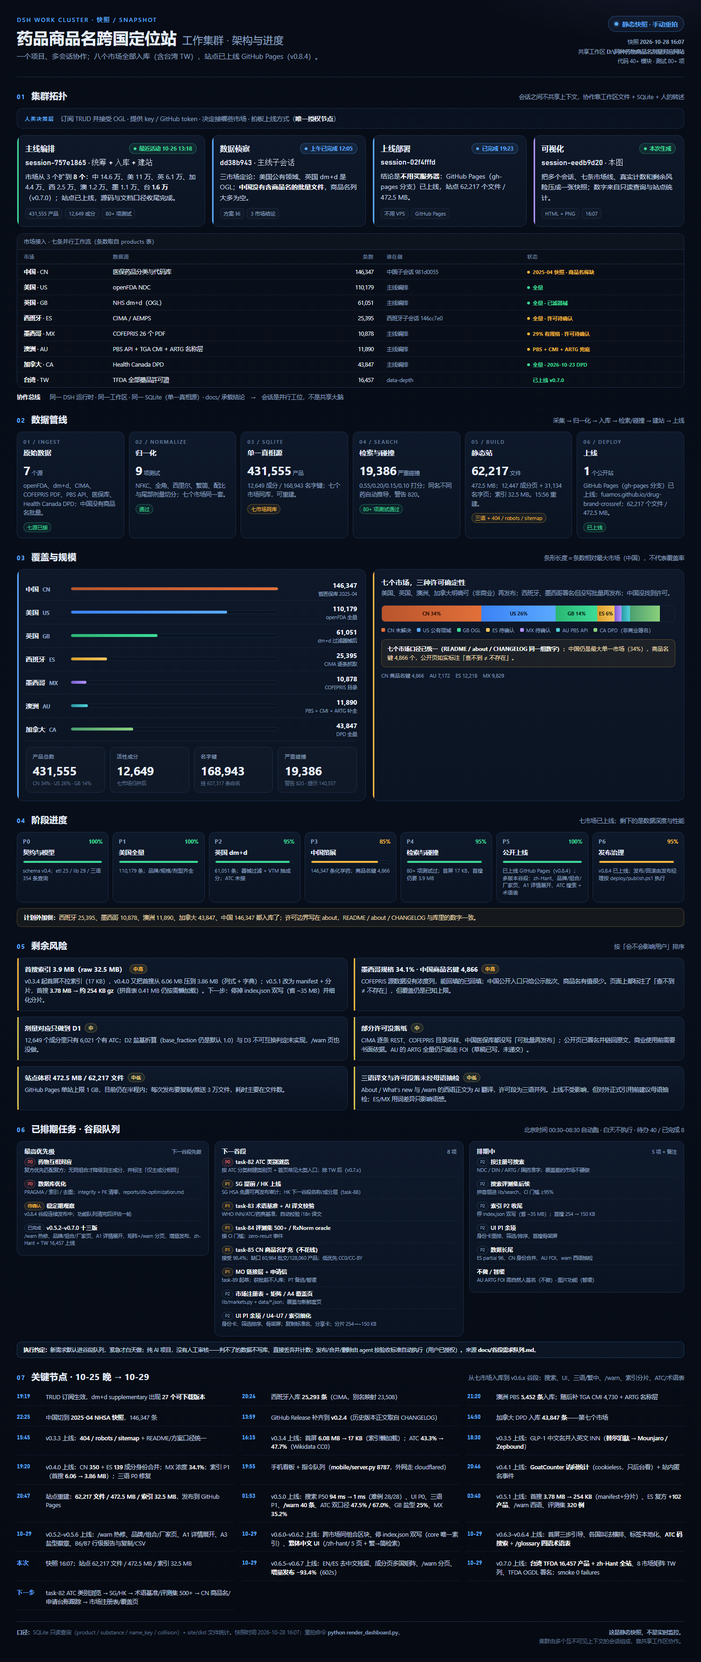
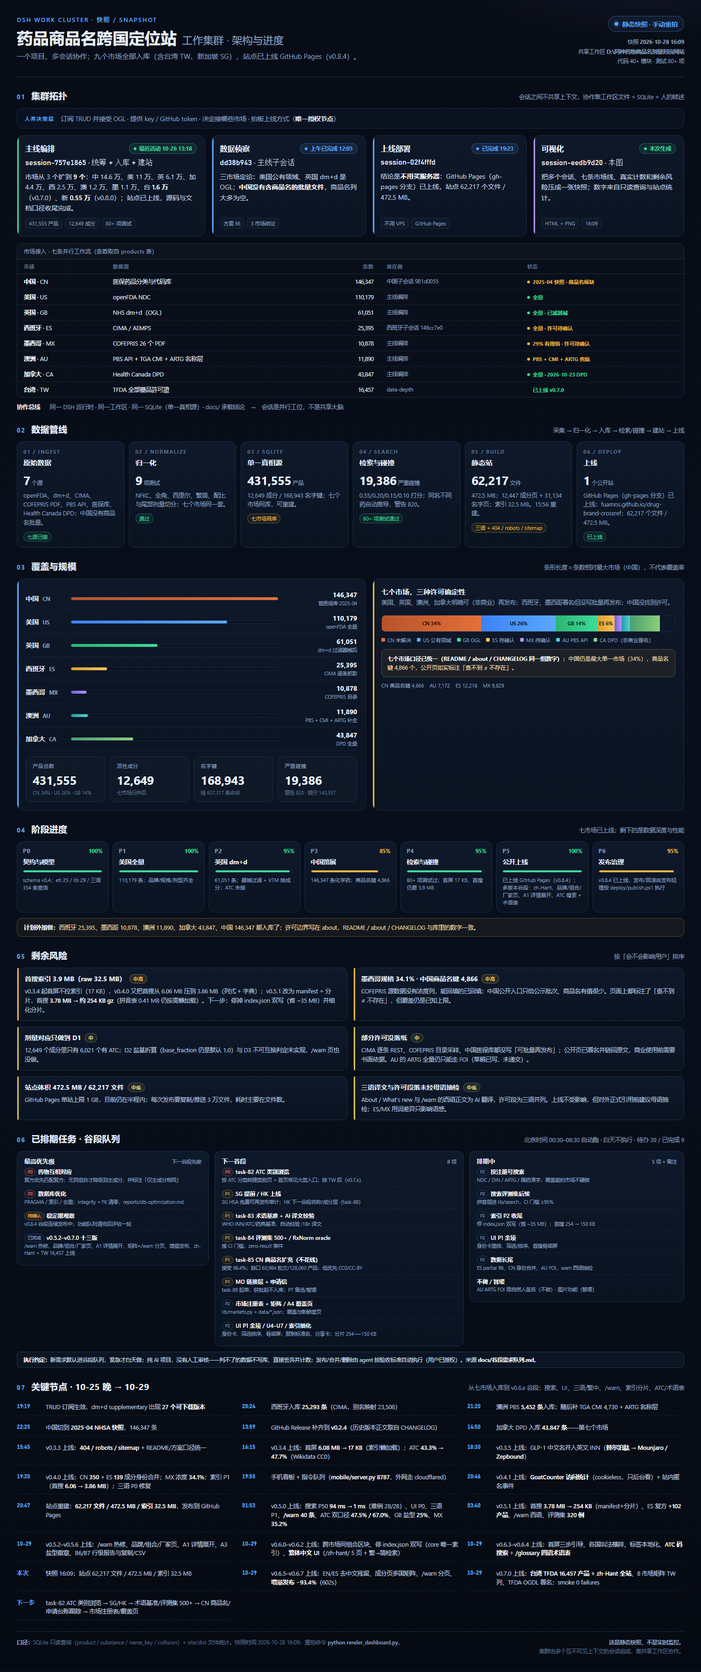
docs: final 19-version wrap-up (v0.8.4) + handoff/queue/dashboard

diff --git a/docs/工作集群-架构与进度.html b/docs/工作集群-架构与进度.html
@@ -189,12 +189,12 @@
   <div>
     <div class="eyebrow">DSH WORK CLUSTER · 快照 / SNAPSHOT</div>
     <h1>药品商品名跨国定位站<span>工作集群 · 架构与进度</span></h1>
-    <div class="lede">一个项目、多会话协作；八个市场全部入库（含台湾 TW），站点已上线 GitHub Pages（v0.8.4）。</div>
+    <div class="lede">一个项目、多会话协作；九个市场全部入库（含台湾 TW、新加坡 SG），站点已上线 GitHub Pages（v0.8.4）。</div>
   </div>
   <div class="snap">
     <div class="live static"><i></i>静态快照 · 手动重拍</div>
     <div class="time">
-      快照 <b>2026-10-28 16:07</b><br>
+      快照 <b>2026-10-28 16:09</b><br>
       共享工作区 <b>D:\同种药物商品名剂量对应网站</b><br>
       代码 40+ 模块 · 测试 80+ 项
     </div>
@@ -211,7 +211,7 @@
     <div class="card g">
       <div class="role"><span class="name">主线编排</span><span class="pill run"><i></i>最近活动 10-26 13:18</span></div>
       <div class="sid mono">session-757e1865 · 统筹 + 入库 + 建站</div>
-      <div class="task">市场从 3 个扩到 <b>8 个</b>：中 14.6 万、美 11 万、英 6.1 万、加 4.4 万、西 2.5 万、澳 1.2 万、墨 1.1 万、台 <b>1.6 万</b>（v0.7.0）；站点已上线，源码与文档口径收尾完成。</div>
+      <div class="task">市场从 3 个扩到 <b>9 个</b>：中 14.6 万、美 11 万、英 6.1 万、加 4.4 万、西 2.5 万、澳 1.2 万、墨 1.1 万、台 <b>1.6 万</b>（v0.7.0）、新 <b>0.55 万</b>（v0.8.0）；站点已上线，源码与文档口径收尾完成。</div>
       <div class="chips"><span class="chip">431,555 产品</span><span class="chip">12,649 成分</span><span class="chip">80+ 项测试</span></div>
     </div>
     <div class="card b">
@@ -230,7 +230,7 @@
       <div class="role"><span class="name">可视化</span><span class="pill run"><i></i>本次生成</span></div>
       <div class="sid mono">session-eedb9d20 · 本图</div>
       <div class="task">把多个会话、七条市场线、真实计数和剩余风险压成一张快照；数字来自只读查询与站点统计。</div>
-      <div class="chips"><span class="chip">HTML + PNG</span><span class="chip">16:07</span></div>
+      <div class="chips"><span class="chip">HTML + PNG</span><span class="chip">16:09</span></div>
     </div>
   </div>
 
@@ -441,7 +441,7 @@
 </section>
 
 <section>
-  <div class="sec-head"><span class="no">06</span><h2>已排期任务 · 谷段队列</h2><span class="hint">北京时间 00:30–08:30 自动跑 · 白天不执行 · 待办 40 / 已完成 8</span></div>
+  <div class="sec-head"><span class="no">06</span><h2>已排期任务 · 谷段队列</h2><span class="hint">北京时间 00:30–08:30 自动跑 · 白天不执行 · 待办 39 / 已完成 9</span></div>
   <div class="queue">
     <div class="qbox">
       <h3>最高优先级 <span>下一谷段先做</span></h3>
@@ -495,7 +495,7 @@
     <div class="ev"><div class="t mono">10-29</div><div class="x">v0.5.2–v0.5.6 上线：/warn 热修、品牌/组合/厂家页、A1 详情展开、A3 盐型徽章、B6/B7 行级报告与复制/CSV</div></div>
     <div class="ev"><div class="t mono">10-29</div><div class="x">v0.6.0–v0.6.2 上线：跨市场同组合区块、停 index.json 双写（core 唯一索引）、<b>繁体中文 UI</b>（/zh-hant/ 5 页 + 繁→简检索）</div></div>
     <div class="ev"><div class="t mono">10-29</div><div class="x">v0.6.3–v0.6.4 上线：首屏三步引导、各国叫法横排、标签本地化、<b>ATC 码搜索</b> + <b>/glossary 四语术语表</b></div></div>
-    <div class="ev"><div class="t mono">本次</div><div class="x">快照 16:07；站点 62,217 文件 / 472.5 MB / 索引 32.5 MB</div></div>
+    <div class="ev"><div class="t mono">本次</div><div class="x">快照 16:09；站点 62,217 文件 / 472.5 MB / 索引 32.5 MB</div></div>
     <div class="ev"><div class="t mono">10-29</div><div class="x">v0.6.5–v0.6.7 上线：EN/ES 去中文残留、成分页多国矩阵、/warn 分页、<b>增量发布 −93.4%</b>（602s）</div></div>
     <div class="ev"><div class="t mono">10-29</div><div class="x">v0.7.0 上线：<b>台湾 TFDA 16,457 产品 + zh-Hant 全站</b>、8 市场矩阵 TW 列、TFDA OGDL 署名；smoke 0 failures</div></div>
     <div class="ev"><div class="t mono">下一步</div><div class="x">task-82 ATC 类别浏览 → SG/HK → 术语基准/评测集 500+ → CN 商品名/申请台账跟踪 → 市场注册表/覆盖页</div></div>
@@ -503,7 +503,7 @@
 </section>
 
 <footer>
-  <div><b>口径：</b>SQLite 只读查询（product / substance / name_key / collision）+ site/dist 文件统计。快照时间 2026-10-28 16:07；重拍命令 <b>python render_dashboard.py</b>。</div>
+  <div><b>口径：</b>SQLite 只读查询（product / substance / name_key / collision）+ site/dist 文件统计。快照时间 2026-10-28 16:09；重拍命令 <b>python render_dashboard.py</b>。</div>
   <div style="text-align:right"><b>这是静态快照，不是实时监控。</b><br>集群由多个互不可见上下文的会话组成，靠共享工作区协作。</div>
 </footer>
 

diff --git a/docs/dashboard.template.html b/docs/dashboard.template.html
@@ -189,7 +189,7 @@
   <div>
     <div class="eyebrow">DSH WORK CLUSTER · 快照 / SNAPSHOT</div>
     <h1>药品商品名跨国定位站<span>工作集群 · 架构与进度</span></h1>
-    <div class="lede">一个项目、多会话协作；八个市场全部入库（含台湾 TW），站点已上线 GitHub Pages（{{LATEST_VER}}）。</div>
+    <div class="lede">一个项目、多会话协作；九个市场全部入库（含台湾 TW、新加坡 SG），站点已上线 GitHub Pages（{{LATEST_VER}}）。</div>
   </div>
   <div class="snap">
     <div class="live static"><i></i>静态快照 · 手动重拍</div>
@@ -211,7 +211,7 @@
     <div class="card g">
       <div class="role"><span class="name">主线编排</span><span class="pill run"><i></i>{{MAIN_STATUS}}</span></div>
       <div class="sid mono">session-757e1865 · 统筹 + 入库 + 建站</div>
-      <div class="task">市场从 3 个扩到 <b>8 个</b>：中 14.6 万、美 11 万、英 6.1 万、加 4.4 万、西 2.5 万、澳 1.2 万、墨 1.1 万、台 <b>1.6 万</b>（v0.7.0）；站点已上线，源码与文档口径收尾完成。</div>
+      <div class="task">市场从 3 个扩到 <b>9 个</b>：中 14.6 万、美 11 万、英 6.1 万、加 4.4 万、西 2.5 万、澳 1.2 万、墨 1.1 万、台 <b>1.6 万</b>（v0.7.0）、新 <b>0.55 万</b>（v0.8.0）；站点已上线，源码与文档口径收尾完成。</div>
       <div class="chips"><span class="chip">{{TOTAL}} 产品</span><span class="chip">{{SUBST}} 成分</span><span class="chip">80+ 项测试</span></div>
     </div>
     <div class="card b">

diff --git a/reports/overnight-20261029.md b/reports/overnight-20261029.md
@@ -1,6 +1,6 @@
 # 谷段自动工作汇报 — 2026-10-29（v0.5.2 → v0.6.x）
 
-> 状态：**框架 v1**（2026-10-28 晚间起草；v0.8.3 发布后更新）。`v0.5.2–v0.8.3` **已发布 18 版**（v0.6.6 内部版本号未单独发布，已并入 v0.6.7）；`v0.8.3` **已上线**（smoke **32/32**、tag/Release、gh-pages `6e864fdaf`；dist **62,217 文件 / 468.4 MB**、sitemap **62,057**、combo **10,284**；增量 **16.52 MiB**（−96.5%）、594s；180s 传播等待生效，publish exit 0）。**v0.8.4（显示层修复 task-128）构建中**，发布后即第 19 版；后续 v0.8.5/HK build/HK 版本；**metrics/dashboard 等实际最后一版发布后跑（不提前）**。
+> 状态：**框架 v1（收尾版，2026-10-29 发布结束后定稿）**。`v0.5.2–v0.8.4` **已发布 19 版**（v0.6.6 内部版本号未单独发布，已并入 v0.6.7）；**v0.8.4 为今晚最后一版**：smoke **32/32**、tag/Release、commit `611a45afa`、gh-pages `b2123de77`；dist **62,217 文件 / 472.5 MB**、sitemap **62,057**；增量上传 **13.37 MiB**（−97.2%）、526s。**最终 metrics + dashboard 已按最终 dist 跑完**（`reports/metrics/2026-10-29.json`、`docs/工作集群-架构与进度.html` + `docs/img/cluster-progress.png`）；下一谷段：v0.8.5（task-131 大类 v2+ATC 去重）→ HK build（task-132）→ HK 版本；task-133 统一 DB 窗口。
 > **2026-10-29 更新**：TW 数据已由 data-depth 写入真实库（非发布，等 task-81 build 支持后 v0.7.0）；最终版本数、站点体积/页面数、线上 smoke、nightly metrics 与 dashboard 快照在最后一版发布完成后回填（发布经理确认 dist 稳定后再跑）。
 > 数据口径：`data/drugs.db` 只读现查（2026-10-29）；站点数字以最终 build 为准；不夸大未验证项。
 
@@ -8,7 +8,7 @@
 
 ## 1. 结论（截至 v0.8.1）
 
-- 本谷段**已连续发布 18 个版本（v0.5.2 → v0.8.3；v0.6.6 内部版本号未单独发布）**：**9 个市场**、四语（en/es/zh/zh-Hant）全站；
+- 本谷段**已连续发布 19 个版本（v0.5.2 → v0.8.4；v0.6.6 内部版本号未单独发布）**：**9 个市场**、四语（en/es/zh/zh-Hant）全站；v0.8.4 为今晚最后一版；
   - **页面体系**：品牌页 / 组合页 / 厂家页 / 术语表页，结果行可展开产品明细（A1）、可复制/导出（B7）；
   - **跨市场**：141 个成分身份合并（substances 12,790 → **12,649**），组合页跨市场同组合区块；
   - **体积**：DB VACUUM **450 MB → 325 MB**；站点停写冗余 `data/index.json`（发布体积 −54.9 MB）；
@@ -17,6 +17,7 @@
 - **v0.7.0 已上线**：台湾 TFDA **16,457 产品**、四语国家列表/chips、成分页矩阵 **TW 列**、zh-Hant 全站启用、TFDA OGDL v1.0 署名；live v0.7.0、smoke **0 failures**、tag v0.7.0、gh-pages `3ce2b035`（Release 待发布经理确认）。
 - **v0.7.1 已上线（ATC 类别浏览）**：1,154 个 ATC 类目页（L1–L4）+ 16 常见大类入口 + `/atc.html` + 四语类名/类名搜索 + WHO ATC/DDD 引用；smoke 32/32、tag/Release 已建、gh-pages `29fab5ecd`、dist 61,547 文件/446.2 MB、sitemap 61,390、增量上传 13.85 MiB（−96.9%）/511s。
 - **v0.8.0 已上线（SG）**：HSA 5,511 产品、全库 **431,555**；四语国家列表/chips/矩阵新增 SG 列，站点 **9 个市场**；矩阵 9 列全显不再截断；About HSA/SODL v1.0 署名与数据截止 2026-08-07，明确「在册名单不代表在售」、商品名保留英文；smoke 32/32、gh-pages `fc7986d1a`、dist 62,878 文件/455.7 MB、sitemap 62,720、增量 17.94 MiB（−96.1%）/515s。
+- **v0.8.4 已上线（今晚最后一版，第 19 版）**：显示层修复——剂型去重、异常规格「待核」、长品牌名截断、状态角标、空值语义、CN 拉丁品牌旁中文通用名；smoke 32/32、commit `611a45afa`、gh-pages `b2123de77`、62,217 文件/472.5 MB、sitemap 62,057、增量 13.37 MiB（−97.2%）/526s。
 - **v0.8.3 已上线（排序/筛选器 + 伪复方归并）**：矩阵常用剂量排序+空行隐藏+筛选器（国家/剂型/释放/规格/URL/移动抽屉）+ 伪复方 base 归并（combo 10,942→10,284、severe 19,381→18,862）；smoke 32/32、gh-pages `6e864fdaf`、dist 62,217 文件/468.4 MB、sitemap 62,057、增量 16.52 MiB（−96.5%）/594s。
 - **v0.8.2 已上线（七项修复）**：零结果埋点+搜索词周报、ATC 大类四语、ATC 成分名中文化、引导卡上移、搜索后收起大类、页头响应式、矩阵列错位修复+当地注册名标注；What's new 补 v0.6–v0.8 译文；smoke 32/32、gh-pages `75b81209f`、dist 62,880 文件/476.0 MB、增量 15.01 MiB（−96.8%）/564s。
 - **v0.8.1 已上线（双语对照）**：本市场原名 + 当前语言译名（默认 zh 536 / es 640）+ 来源徽章 + 数据版本 v2026-10-28.1；无译名回退原名、品牌永不翻译；「显示原文对照」默认开启（zh-Hant 暂回退原名）；smoke 32/32、gh-pages `46a6bfd37`、dist 62,880 文件/463.7 MB、sitemap 62,720、增量 14.92 MiB（−96.8%）/519s；体积 +8 MB。
@@ -49,7 +50,7 @@
 | v0.8.1 | 2026-10-29 | 双语对照显示：本市场原名 + 当前语言译名（zh 536/es 640）+ 来源徽章 + 数据版本 v2026-10-28.1；无译名回退原名、品牌永不翻译；显示原文对照默认开；smoke 32/32，gh-pages 46a6bfd37，62,880 文件/463.7 MB，sitemap 62,720 |
 | v0.8.2 | 2026-10-29 | 七项修复：零结果埋点+搜索词周报、ATC 大类四语、ATC 成分名中文化、引导卡上移、搜索后收起大类、页头响应式、矩阵列错位修复+当地注册名标注；What's new 补 v0.6–v0.8 译文；smoke 32/32，gh-pages 75b81209f，62,880 文件/476.0 MB |
 | v0.8.3 | 2026-10-29 | 排序/筛选器 + 伪复方 base 归并：常用剂量排序（跨国家记录数、未公开最后）、空行隐藏、筛选器（国家/剂型/释放/规格/URL/移动抽屉）、伪复方 base 归并（combo 10,942→10,284、severe 19,381→18,862）；smoke 32/32，gh-pages 6e864fdaf，62,217 文件/468.4 MB，sitemap 62,057 |
-| *v0.8.4* | *代码就绪/待发* | *显示层修复（task-128）：剂型去重、异常规格「待核」、长品牌名截断、状态角标、空值语义、CN 拉丁品牌旁中文通用名；v0.8.3 发布后构建，今晚不够则下一谷段* |
+| v0.8.4 | 2026-10-29 | 显示层修复：剂型去重、异常规格「待核」、长品牌名截断、状态角标、空值语义、CN 拉丁品牌旁中文通用名；smoke 32/32，commit 611a45afa，gh-pages b2123de77，62,217 文件/472.5 MB，sitemap 62,057 |
 | *v0.8.5* | *计划* | *大类映射 v2 + ATC 去重（task-131：减肥药补 GLP-1、感冒/过敏拆分、他汀去撤市、cap 截断、ATC 去重）；ATC 类名四语数据（task-130，Wikidata CC0）* |
 | *v0.8.6 / v0.9.0* | *计划* | *HK 市场版本（task-132 HK build 后；视发布进度定版本号）* |
 
@@ -87,9 +88,9 @@
 | ATC 覆盖 | 全部 **47.6%**（6,021 / 12,649）；药物实体 **67.4%**（5,702 / 8,459） | 以 `data/entity_type.csv` 分类；entity 文件待随库重建同步 |
 | GB 盐型组件 | 16,396（2.0% → 25.0%） | `reports/gb-salt-recovery.md` |
 | zh-Hant 字典 | **328 / 328 键** | 本轮补齐 81 键，`reports/zh-hant-i18n-refresh2.md` |
-| DB 体积 | **364.2 MB** | v0.5.5 VACUUM 450→325.4 MB；TW+SG 入库后 364.2 MB（最终以 metrics 为准） |
+| DB 体积 | **364.2 MB** | v0.5.5 VACUUM 450→325.4 MB；TW+SG 入库后 364.2 MB（最终快照） |
 | 各市场产品 | CN 146,347 · US 110,179 · GB 61,051 · CA 43,847 · ES 25,395 · AU 11,890 · MX 10,878 · **TW 16,457** · **SG 5,511**（v0.8.0 已上线） |
-| 站点文件/体积/页面数 | v0.8.3：**62,217 文件 / 468.4 MB**；sitemap **62,057**；combo 10,284；core gzip 7.82 MB（raw 32.2 MB） | 9 市场/四语；v0.8.4+ 发布后按最终 dist 回填 |
+| 站点文件/体积/页面数 | **v0.8.4（最终）：62,217 文件 / 472.5 MB / 62,058 HTML**；sitemap **62,057**；drug 12,447 · name 31,134；core gzip **7.60 MB**（raw 32.5 MB）；首搜 0.25 MB gz / 首屏 95,439 B gz | 最终 dist，metrics 已跑 |
 
 ---
 
@@ -99,9 +100,9 @@
 - 三语回归（`tests/trilingual/run_tests.py`，72 例 / 354 查询，2026-10-28 晚复跑）：**68/72 通过；Top-5 97.7%、Top-1 96.0%、跨国可见 72/72**，对比 v0.5.0 基线（67/72、97.5%/95.8%）**无回归**；失败 4 例：dup_inn 3（ciclosporin / beclometasone / chlorphenamine，西语查询 Top1 命中英文名但排名被同名重复条目挤出）+ combo 1 例；明细 `.tmp/trilingual/results_overnight_20261029.json`（用时 556.3s）。
 - **TW 入库后**：`quick_check` ok、FK 0；`tests.test_markets_registry::test_enabled_markets_match_db_countries` 1 项红为**预期过渡态**（DB 有 TW，markets.json 仍 disabled，等 task-81 启用后转绿）。
 - `db/check_data.py`、`integrity_check`、FK：**待最终版本后复跑**（发布/合并期间不抢写库）。
-- 发布 smoke：v0.8.3 **32/32**（gh-pages 6e864fdaf；增量 16.52 MiB/−96.5%/594s；180s 传播等待）；v0.8.2 **32/32**（gh-pages 75b81209f；增量 15.01 MiB/−96.8%/564s）；v0.6.7 **32/32**；v0.7.0 **0 failures**（Lead verify）；v0.7.1 **32/32**（gh-pages 29fab5ecd；增量 13.85 MiB/−96.9%/511s）；v0.8.0 **32/32**（gh-pages fc7986d1a；增量 17.94 MiB/−96.1%/515s）；v0.8.1 **32/32**（gh-pages 46a6bfd37；增量 14.92 MiB/−96.8%/519s）。
+- 发布 smoke：**v0.8.4 32/32**（gh-pages b2123de77；增量 13.37 MiB/−97.2%/526s；commit 611a45afa；今晚最后一版）；v0.8.3 **32/32**（gh-pages 6e864fdaf；增量 16.52 MiB/−96.5%/594s）；v0.8.2 **32/32**（gh-pages 75b81209f；增量 15.01 MiB/−96.8%/564s）；v0.6.7 **32/32**；v0.7.0 **0 failures**（Lead verify）；v0.7.1 **32/32**（gh-pages 29fab5ecd；增量 13.85 MiB/−96.9%/511s）；v0.8.0 **32/32**（gh-pages fc7986d1a；增量 17.94 MiB/−96.1%/515s）；v0.8.1 **32/32**（gh-pages 46a6bfd37；增量 14.92 MiB/−96.8%/519s）。
 - nightly metrics / dashboard：v0.7.0 中间态已跑一次（metrics 见下；dashboard 快照已更新）；**v0.8.2（最后一版）发布后按最终 dist 再跑一次**（最后一次）并回填本报告最终数字。
-- v0.7.0 metrics **7 warnings（中间态，预期+需跟踪）**：`data/index.json` 缺失（v0.6.1 起主动移除，guardrail 未更新）、成分数 12,790→12,649（-1.1%，batch A+B 合并预期）、severe 碰撞 15,509→18,917（+22%，TW/8 市场数据增加预期）、成分页 12,377→12,246（-1.06%，合并预期）、首搜 146 KB→251 KB gz（+72%，ATC 字段）、首屏 42 KB→84 KB gz（+99%，矩阵/四语/TW）、core gz 3.69→7.56 MB（+105%，ATC+TW）；**需在 v0.8.0 后复核性能预算**。
+- 最终 metrics **6 warnings（预期+需跟踪，非回退）**：`data/index.json` 缺失（v0.6.1 起主动移除，guardrail 未更新）、成分数 12,790→12,649（−1.1%，batch A+B 合并预期）、severe 15,509→19,386（+25%，TW/SG/双市场数据增加预期）、首搜 146 KB→249 KB gz（+70%，ATC 字段）、首屏 42 KB→95 KB gz（+125%，矩阵/四语/TW/SG/双语）、core gz 3.69→7.60 MB（+106%，ATC+TW/SG 索引）；**性能预算需下一谷段跟踪**。
 - 不夸大：未收到发布经理确认的线上 smoke 数字不写进本报告。
 
 ---
@@ -157,7 +158,7 @@
 
 ## 9. 报告索引（本谷段）
 
-`reports/warn-verify.md`、`link-target-fix.md`、`maker-pages.md`、`i18n-v055.md`、`ingredient-i18n.md`、`cross-market-apply-prep.md`、`ui-a1-b6-impl.md`、`combo-page-integration.md`、`index-legacy-impl.md`、`zh-hant-ui-impl.md`、`tw-country-migration.md`、`ui-u1-u3-impl.md`、`atc-glossary-impl.md`、`zh-hant-i18n-refresh2.md`、`release-notes-i18n-v055.md`、`tw-ingest-write.md`（TW 数据入库）、`matrix-layout-impl.md`、`warn-pagination-impl.md`、`publish-incremental.md`（v0.6.7）、`ui-lang-cleanup.md`（v0.6.5）、`atc-browse-impl.md`（v0.7.1）、`sg-market-enable.md` / `sg-market-build.md`（v0.8.0）、`metrics/2026-10-29.json`（v0.7.0 中间态）、`docs/工作集群-架构与进度.html` + `docs/img/cluster-progress.png`（v0.7.0 快照）；v0.8.0 后更新最终版。
+`reports/warn-verify.md`、`link-target-fix.md`、`maker-pages.md`、`i18n-v055.md`、`ingredient-i18n.md`、`cross-market-apply-prep.md`、`ui-a1-b6-impl.md`、`combo-page-integration.md`、`index-legacy-impl.md`、`zh-hant-ui-impl.md`、`tw-country-migration.md`、`ui-u1-u3-impl.md`、`atc-glossary-impl.md`、`zh-hant-i18n-refresh2.md`、`release-notes-i18n-refresh3.md`、`tw-ingest-write.md`（TW 数据入库）、`matrix-layout-impl.md`、`warn-pagination-impl.md`、`publish-incremental.md`（v0.6.7）、`ui-lang-cleanup.md`（v0.6.5）、`atc-browse-impl.md`（v0.7.1）、`sg-market-enable.md` / `sg-market-build.md`（v0.8.0）、`display-fixes-impl.md`（v0.8.4）、`pseudo-combo-build.md`、`search0-analytics-impl.md`、`cat-i18n-fix.md`、`header-ui-fix.md`、`matrix-alignment-fix.md`；`metrics/2026-10-29.json`（**最终**）、`docs/工作集群-架构与进度.html` + `docs/img/cluster-progress.png`（**v0.8.4 最终快照**）。
 
 ---
 

diff --git a/docs/谷段需求队列.md b/docs/谷段需求队列.md
@@ -12,7 +12,7 @@
 
 > 用户 2026-10-29 新批准 5 项（task-82~86）已入队；按优先级排序，TW 相关（task-81/82）最前。
 
-> **版本计划（Lead 2026-10-29 决策，用户授权不再逐项确认）**：v0.8.2（七项修复，**已上线**）→ v0.8.3（排序/筛选器 + 伪复方 base 归并，**已上线**）→ **v0.8.4（显示层修复，task-128，代码就绪待发）** → **v0.8.5（大类 v2 + ATC 去重）** → **HK build（task-132）** → **HK 市场版本（v0.8.6/v0.9.0）**；今晚能发多少算多少，未发的下一谷段继续。
+> **版本计划（Lead 2026-10-29 决策，用户授权不再逐项确认）**：v0.8.2（七项修复，**已上线**）→ v0.8.3（排序/筛选器 + 伪复方 base 归并，**已上线**）→ **v0.8.4（显示层修复，task-128，已上线，今晚最后一版）** → **v0.8.5（大类 v2 + ATC 去重）** → **HK build（task-132）** → **HK 市场版本（v0.8.6/v0.9.0）**；今晚能发多少算多少，未发的下一谷段继续。
 >
 > **审计 triage 规则**：P0 立即修、P1 下一批、P2 backlog；按此自动执行，不必等用户确认。
 >
@@ -47,7 +47,7 @@
 - [x] **v0.8.1 已回填（第 16 版）**：双语对照（zh 536/es 640、来源徽章、版本 v2026-10-28.1）+ 显示原文对照默认开；live v0.8.1/smoke 32/32/tag+Release/gh-pages 46a6bfd37/62,880 文件 463.7 MB/sitemap 62,720/增量 14.92 MiB −96.8% 519s。
 - [x] **v0.8.2 已回填（第 17 版）**：零结果埋点+搜索词周报、ATC 大类四语、ATC 成分名中文化、引导卡上移、搜索后收起大类、页头响应式、矩阵列错位修复+当地注册名标注；What's new 补 v0.6–v0.8 译文；live v0.8.2/smoke 32/32/tag+Release/gh-pages 75b81209f/62,880 文件 476.0 MB/增量 15.01 MiB −96.8% 564s。
 - [x] **v0.8.3 已回填（第 18 版）**：矩阵常用剂量排序（跨国家记录数、未公开最后）+ 空行隐藏 + 筛选器（国家/剂型/释放/规格搜索/URL/移动抽屉）+ 伪复方 base 归并（combo 10,942→10,284、severe 19,381→18,862）；live v0.8.3/smoke 32/32/tag+Release/gh-pages 6e864fdaf/62,217 文件 468.4 MB/sitemap 62,057/增量 16.52 MiB −96.5% 594s。
-- [ ] **v0.8.4 = 显示层修复（task-128，代码就绪，v0.8.3 发布后构建/发布）**：**剂型去重**（通用名含剂型词不再重复）、**异常规格「待核」**（如 400064g 不按最大规格排序）、**长品牌名截断**（≤2 行 + title 全名）、**状态角标**（在售/停售/unknown）、**空值语义**（未收录 vs 未公开区分）、**CN 拉丁品牌旁中文通用名**（用 inn_zh，品牌不译）；若今晚时间不够则下一谷段发；发布后补第 19 版行。
+- [x] **v0.8.4 已回填（第 19 版，今晚最后一版）**：剂型去重、异常规格「待核」、长品牌名截断、状态角标、空值语义、CN 拉丁品牌旁中文通用名；live v0.8.4/smoke 32/32/tag+Release/commit 611a45afa/gh-pages b2123de77/62,217 文件 472.5 MB/sitemap 62,057/增量 13.37 MiB −97.2% 526s。
 - [ ] **task-132 HK build（site/build.py）**：HK 名称/成分层接入（无规格/剂型/状态，页面明示）；HK 数据由任务 93/88 准备；完成后 HK 市场版本（v0.8.6/v0.9.0，视当晚发布进度）。
 - [ ] **task-133 下一谷段统一 DB 窗口**：HK + EMA + CN inn_zh v2 + CN 商品名候选 + CN 清洗一次执行（备份、回滚清单、check_data/quick/FK 全过；与 build 窗口串行）。
 - [ ] **task-127/128/129 CN 数据 v2（并入 task-133 窗口）**：CN inn_zh v2（补 236 个缺失成分）+ CN 商品名候选 apply + CN 清洗（规格异常/剂型/精确重复/批文展示）。
@@ -84,7 +84,7 @@
 
 ## 已完成
 
-### 2026-10-29 谷段（已发 18 版，v0.5.2 → v0.8.3；v0.6.6 内部版本号未单独发布；v0.8.4 构建中，版本数以实际 tag 为准）
+### 2026-10-29 谷段（已发 19 版，v0.5.2 → v0.8.4；v0.6.6 内部版本号未单独发布；v0.8.4 为今晚最后一版）
 
 - v0.5.2 · **/warn 与成分页警示空白热修**（lang-block display 回落 CSS none）· reports/warn-verify.md
 - v0.5.3 · **品牌/成分点击目标修复 + 品牌页/组合页**：品牌→品牌页（无页不可点，禁止回退药物页）；复方→组合页 9,339；品牌页 29,140；索引 `cu`/`mu`；reports/link-target-fix.md
@@ -107,6 +107,7 @@
 - v0.8.1 · **双语对照显示**：成分/商品名在「本市场原名」旁显示当前语言译名（默认 zh **536** / es **640** 条）+ **来源徽章**；双语数据版本 **v2026-10-28.1**；无译名回退原名、**品牌名永不翻译** · 「显示原文对照」开关（检索结果/成分页可切原始商品名，**默认开启**；zh-Hant 暂回退原名）· 站点 **62,880 文件/463.7 MB**，sitemap 62,720 URL；四语界面；其余与 v0.8.0 一致 · **已上线**（smoke **32/32**、tag/Release、gh-pages **46a6bfd37**、增量上传 **14.92 MiB**（−96.8%）、519s）· reports/bilingual-impl.md
 - v0.8.2 · **七项修复**：**零结果埋点** `search0-*`（去重/防抖/≤64 字）+ 搜索词周报 · **ATC 大类入口四语** · **ATC/大类页成分名中文化** · **首页引导卡上移/更醒目** · **搜索后收起「按大类浏览」** · **页头 nav/语言切换响应式** · **矩阵列错位修复 + 当地注册名标注**；What's new 补 v0.6–v0.8 译文 · **已上线**（smoke **32/32**、tag/Release、gh-pages **75b81209f**、**62,880 文件/476.0 MB**、增量 **15.01 MiB**（−96.8%）、564s）
 - v0.8.3 · **排序/筛选器 + 伪复方 base 归并**：矩阵**常用剂量排序**（按跨国家产品/品牌记录数，未公开排最后）+ **全部未收录空行隐藏** + **筛选器**（国家/剂型/释放/规格文本搜索；URL 可分享；移动端折叠抽屉）+ **伪复方 build 层按 base 归并**（combo 页 **10,942→10,284**、severe **19,381→18,862**）· **已上线**（smoke **32/32**、tag/Release、gh-pages **6e864fdaf**、**62,217 文件/468.4 MB**、sitemap **62,057**、增量 **16.52 MiB**（−96.5%）、594s；180s 传播等待后生效，publish exit 0）
+- v0.8.4 · **显示层修复**：**剂型去重**（通用名含剂型词不再重复）· **异常规格「待核」**（如 400064g 不按最大规格排序）· **长品牌名截断**（≤2 行 + 全名 title）· **状态角标**（在售/停售/unknown 区分）· **空值语义**（未收录 vs 未公开/状态未确认区分）· **CN 拉丁品牌旁中文通用名**（用 inn_zh，品牌不译）· **已上线**（smoke **32/32**、tag/Release、commit **611a45afa**、gh-pages **b2123de77**、**62,217 文件/472.5 MB**、sitemap **62,057**、增量 **13.37 MiB**（−97.2%）、526s）· reports/display-fixes-impl.md
 
 ### 2026-10-26/27 谷段
 

diff --git a/docs/交接-20261029.md b/docs/交接-20261029.md
@@ -8,14 +8,14 @@
 
 ## 0. 一句话现状
 
-**站点已上线 18 个版本（v0.5.2 → v0.8.3，gh-pages 最新 v0.8.3）**，9 个市场、四语（en/es/zh/zh-Hant）；**v0.8.4（显示层修复 task-128）构建中**，之后按 v0.8.5 → HK build → HK 版本推进（版本数以实际 tag 为准）；**v0.8.2 之后是否继续发由发布经理/Lead 当晚报文决定，未发完的下一谷段继续**。
+**站点已上线 19 个版本（v0.5.2 → v0.8.4，gh-pages 最新 v0.8.4；v0.8.4 为今晚最后一版）**，9 个市场、四语（en/es/zh/zh-Hant）；下一谷段按 **v0.8.5（task-131）→ HK build（task-132）→ HK 版本** 推进（版本数以实际 tag 为准）；**v0.8.2 之后是否继续发由发布经理/Lead 当晚报文决定，未发完的下一谷段继续**。
 
 ---
 
 ## 1. 线上版本（截至本文写作）
 
-- **线上**：**v0.8.3**（2026-10-29 发布，gh-pages `6e864fdaf`，smoke **32/32**，62,217 文件/468.4 MB，sitemap 62,057，增量 16.52 MiB/−96.5%/594s，180s 传播等待）。`CHANGELOG.md` 最上面是 `## v0.8.3`；**若新会话看到 CHANGELOG 已是 v0.8.3+，以 CHANGELOG/队列「已完成」为准**。
-- **今晚谷段已发 18 版**（v0.5.2–v0.8.3，v0.6.6 为内部版本号未单独发布、并入 v0.6.7）：
+- **线上**：**v0.8.4**（2026-10-29 发布，commit `611a45afa`，gh-pages `b2123de77`，smoke **32/32**，**62,217 文件/472.5 MB**，sitemap 62,057，增量 13.37 MiB/−97.2%/526s）。`CHANGELOG.md` 最上面是 `## v0.8.4`；**若新会话看到 CHANGELOG 已是 v0.8.3+，以 CHANGELOG/队列「已完成」为准**。
+- **今晚谷段已发 19 版**（v0.5.2–v0.8.4，v0.6.6 为内部版本号未单独发布、并入 v0.6.7；**v0.8.4 为今晚最后一版**）：
 
 | 版本 | 一句话 |
 |---|---|
@@ -35,11 +35,12 @@
 | v0.7.1 | ATC 类别浏览（1,154 类目页 + 16 大类）、四语类名/搜索 |
 | v0.8.0 | 新加坡 HSA 5,511 产品、9 市场矩阵全显、HSA/SODL 署名 |
 | v0.8.1 | 双语对照显示（zh 536/es 640、来源徽章 v2026-10-28.1）、显示原文开关 |
+| v0.8.4 | **显示层修复**：剂型去重、异常规格「待核」、长名截断、状态角标、空值语义、CN 拉丁品牌旁中文通用名（commit 611a45afa，gh-pages b2123de77，smoke 32/32，62,217 文件/472.5 MB） |
 | v0.8.3 | **排序/筛选器 + 伪复方 base 归并**：常用剂量排序（跨国家记录数、未公开最后）、空行隐藏、筛选器（国家/剂型/释放/规格/URL/移动抽屉）、伪复方归并（combo 10,942→10,284、severe 19,381→18,862）（gh-pages 6e864fdaf，smoke 32/32，62,217 文件/468.4 MB） |
 | v0.8.2 | **七项修复**：零结果埋点+搜索词周报、ATC 大类四语、ATC 成分名中文化、引导卡上移、搜索后收起大类、页头响应式、矩阵列错位修复+当地注册名标注；What's new 补 v0.6–v0.8 译文（gh-pages 75b81209f，smoke 32/32，62,880 文件/476.0 MB） |
 
 - **workspace 状态（本文写作时）**：**git 不干净**——`git status --short` 有 **97** 个改动/未跟踪文件（docs/data/db/etl 等持续写入，属正常多 agent 并行）；HEAD `ff66a35ac`（v0.8.0/v0.8.1 测量提交）。**不要依赖 git clean 判断状态，不要自己 commit**；发布由发布经理按 §7 流程执行。
-- **v0.8.4（显示层修复，task-128）构建中**（v0.8.3 已上线）：剂型去重、异常规格「待核」、长品牌名截断（≤2 行）、状态角标、空值语义、CN 拉丁品牌旁中文通用名；今晚时间不够则下一谷段发，版本数以实际 tag 为准；发布后补第 19 版行。
+- **v0.8.4 已上线（第 19 版，今晚最后一版）**（commit `611a45afa`、gh-pages `b2123de77`、smoke 32/32、62,217 文件/472.5 MB、sitemap 62,057、增量 13.37 MiB −97.2%/526s）：剂型去重、异常规格「待核」、长品牌名截断（≤2 行）、状态角标、空值语义、CN 拉丁品牌旁中文通用名。
 - **v0.8.3 已上线（第 18 版）**（gh-pages `6e864fdaf`、smoke 32/32、62,217 文件/468.4 MB、sitemap 62,057、增量 16.52 MiB −96.5%/594s，180s 传播等待）：矩阵常用剂量排序（跨国家记录数、未公开最后）+ 空行隐藏 + 筛选器（国家/剂型/释放/规格搜索/URL/移动抽屉）+ 伪复方 base 归并（combo 10,942→10,284、severe 19,381→18,862）。
 - **v0.8.2 已上线（第 17 版）**（gh-pages 75b81209f、smoke 32/32、62,880 文件/476.0 MB、增量 15.01 MiB −96.8%/564s）：七项修复（零结果埋点 + 搜索词周报；ATC 大类四语；ATC 成分名中文化；引导卡上移；搜索后收起大类；页头响应式；矩阵列错位修复 + 当地注册名标注）+ What's new 补 v0.6–v0.8 译文。以下为原 v0.8.2 计划明细（已实现）：零结果埋点 `search0-*`（task-112）、ATC 大类入口四语（task-114）、ATC/大类页成分名中文化（task-120）、首页引导卡上移/更醒目（task-115）、搜索后收起「按大类浏览」（task-116）、页头 nav/语言切换换行修复（task-118）；报告陆续在 `reports/`（`search0-analytics-impl.md`、`cat-i18n-fix.md`、`home-guide-position.md`、`home-category-collapse.md`、`header-ui-fix.md`、`matrix-alignment-fix.md`、`atc-ingredient-i18n.md` 等）。
 
@@ -55,7 +56,7 @@
 | name_key / name_variant / product_name | 168,943 / 184,766 / 607,317 |
 | nickname / drug_term / confusable_pair / dose_warning | 57 / 1,062 / 22 / 41（published 40） |
 | 市场（9） | CN 146,347 · US 110,179 · GB 61,051 · CA 43,847 · ES 25,395 · **TW 16,457** · AU 11,890 · MX 10,878 · **SG 5,511** |
-| site/dist（v0.8.3） | **62,217 文件 / 468.4 MB**；sitemap 62,057；drug 12,447 · name 31,139 · combo 10,942 · maker 6,997 · atc 1,154 · cat 16 |
+| site/dist（v0.8.4） | **62,217 文件 / 472.5 MB**；HTML 62,058；sitemap 62,057；drug 12,447 · name 31,134 · combo 10,284 · maker 6,997 · atc 1,154 · cat 16 |
 | 计算口径 | DB 现查为准；README/About/CHANGELOG 数字需与 DB 一致（见 AGENTS.md §4） |
 
 ---
@@ -208,4 +209,4 @@
 
 ---
 
-*本文写作时：线上 v0.8.3（18 版）、v0.8.4 构建中、DB 431,555 产品/9 市场、site/dist v0.8.3 62,217 文件/468.4 MB。若新会话启动时数字/版本已变化，以 CHANGELOG、队列和早报为准，并顺手更新本文档。*
+*本文写作时：线上 v0.8.4（19 版，今晚最后一版）、DB 431,555 产品/9 市场、site/dist v0.8.4 62,217 文件/472.5 MB；最终 metrics/dashboard 已跑（reports/metrics/2026-10-29.json + docs/工作集群-架构与进度.html）。若新会话启动时数字/版本已变化，以 CHANGELOG、队列和早报为准，并顺手更新本文档。*

diff --git a/README.md b/README.md
@@ -3,7 +3,7 @@
 给一个名字（或包装上的一行字），定位到它是哪个药、什么规格，再给出其他国家的对应产品。
 
 **范围**：公开上线 · 美国 / 英国 / 西班牙 / 墨西哥 / 中国 / 澳洲 / 加拿大 / 台湾（v0.7.0 已上线）· 香港/澳门待上线/审计 · 只用可公开许可（或官方明确允许再发布）的数据源，逐源许可见 [docs/许可清单.md](docs/许可清单.md)。
-**当前状态**：八个市场全部入库（含台湾 TW），站点静态生成。美国、英国、中国、加拿大是全量；西班牙、墨西哥、澳洲各有各的缺口，页面上如实标注。台湾 v0.7.0 已上线（TFDA 16,457 产品；规格来自品名解析、置信度有限）。
+**当前状态**：九个市场全部入库（含台湾 TW、新加坡 SG），站点静态生成。美国、英国、中国、加拿大是全量；西班牙、墨西哥、澳洲各有各的缺口，页面上如实标注。台湾 v0.7.0 已上线（TFDA 16,457 产品；规格来自品名解析、置信度有限）。
 
 ![检索示例](docs/img/search-tainuo.png)
 
@@ -19,6 +19,7 @@
 | 澳洲 11,890 个产品入库（PBS 5,452 + TGA CMI 4,730 + ARTG 明细 1,559 + ARTG 补全 144 + 人工核对 5） | ✅ |
 | 加拿大 43,847 个产品入库（Health Canada DPD 全量，一行 = 一个 DIN；顺势疗法/兽药/消毒剂已排除） | ✅ |
 | 台湾 16,457 个产品入库（TFDA「全部藥品許可證資料集」；规格来自药名解析，官方清单无结构化规格列） | ✅ |
+| 新加坡 5,511 个产品入库（HSA「Listing of Registered Therapeutic Products」；SODL v1.0） | ✅ |
 | 中文 / 全角 / 西里尔 / 带剂量的输入归一化 | ✅ |
 | 搜索增强：拼音 / 首字母、错拼容错、短中文片段、自动完成，结果按成分聚合 | ✅ 匹配 P50 ~1 ms |
 | 首搜索引分片：输入后只拉首字符分片 | ✅ 3.78 MB → ~254 KB（gz） |
@@ -31,8 +32,8 @@
 | 同名碰撞自动推导（不同成分 → 严重，缓释差异 → 警告） | ✅ |
 | 跨语言品牌家族（Tylenol ↔ 泰诺 ↔ 泰诺林） | ✅ 4 组 |
 | BAN↔USAN 同义词（paracetamol ↔ acetaminophen、salbutamol ↔ albuterol 等 34 组） | ✅ |
-| 成分身份卡（各国商品名对照） | ✅ 12,246 成分页 + 品牌/组合/厂家页分层（v0.7.0） |
-| 名字碰撞页 | ✅ 30,383 名字页（v0.7.0） |
+| 成分身份卡（各国商品名对照） | ✅ **12,447 成分页** + 品牌/组合/厂家页分层（v0.8.4） |
+| 名字碰撞页 | ✅ **31,134 名字页**（v0.8.4） |
 
 ## 跑起来
 
@@ -174,6 +175,7 @@ site/    build.py（静态生成，含 /confused.html） + dist/（产物）
 | 澳洲 | PBS API v3 + TGA CMI 目录 + ARTG 名称层 + 人工种子 | 有 | PBS API 可再发布（保留版权声明）；CMI/ARTG 只取事实字段 | ✅ 11,890 条＝PBS 5,452 + CMI 4,730 + ARTG 明细 1,559 + 补全 144 + Gaviscon 5；ARTG 名称层 34,594 条只做检索兜底 |
 | 加拿大 | DPD 数据提取包（无授权下载路径则走同主机 DPD Open API） | 有 | 非商业再使用，须注明来源 | ✅ 已接入 43,847 条（Human，2026-10-23 DPD） |
 | 台湾 | TFDA「全部藥品許可證資料集」（data.gov.tw #9122） | 有 | 政府資料開放授權條款（OGDL v1.0），须署名 | ✅ 已接入 16,457 条（规格来自品名解析、置信度有限；数据截止 2026-10-22） |
+| 新加坡 | HSA「Listing of Registered Therapeutic Products」（data.gov.sg） | 有 | Singapore Open Data Licence（SODL v1.0），须署名 | ✅ 已接入 5,511 条（在册≠在售；数据截止 2026-08-07，每 6 个月更新） |
 
 **TW（台湾）**：v0.7.0 已上线——TFDA **16,457** 产品入库（products 426,044 中 TW 16,457）、DB 351.4 MB、quick_check ok / FK 0；`data/markets.json` TW 与 `data/languages.json` zh-Hant 已启用，站点 8 市场、四语（含 zh-Hant 全站），About 加 TFDA / OGDL v1.0 署名（数据截止 2026-10-22）；TW 规格来自品名解析、成分页已标注置信度有限。**HK** 下一谷段上线（名称/成分层）；**MO** 先做链接层 + 申请信（获批前不入库）。
 
